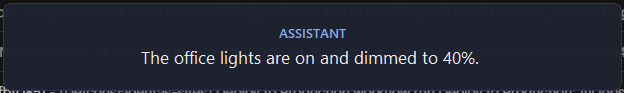
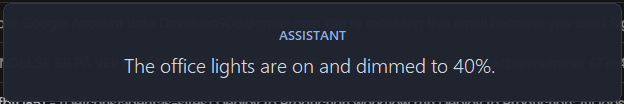
Softer popup typography + gentle reply fade-in
Lighter font weights (Segoe UI Semilight/Light), reduced-contrast reply colour,
warmer card, softer accent/error tones, and a slightly gentler slide entrance.
The reply text now fades up from the card colour when it lands instead of
snapping in.

diff --git a/overlay.py b/overlay.py
@@ -65,25 +65,26 @@ def monitor_workarea_at(x: int, y: int):
 
 
 MAGIC = "#ff00ff"          # transparent knock-out colour for rounded corners
-CARD = "#1e2230"
+CARD = "#20242f"           # slightly warmer/softer card
 BORDER = "#333a4d"
-TITLE_COL = "#e8eaed"
-ACCENT = "#8ab4f8"
+TITLE_COL = "#c9d0da"      # softened (was near-white, too harsh)
+ACCENT = "#93b7f2"         # a touch softer blue
 MUTED = "#9aa0a6"
-TEXT = "#f1f3f4"
-ERROR_COL = "#f28b82"
+TEXT = "#d6dce4"           # soft light-grey reply text, gentler contrast
+ERROR_COL = "#f0a6a0"      # softer red
+REVEAL_FROM = "#2b303c"    # colour the reply fades UP from (near the card)
 
 WIDTH = 620
-PAD = 22
+PAD = 24
 MARGIN = 44                # gap above the taskbar at rest
-SLIDE = 46                 # px the popup travels while sliding in/out
-APPEAR_MS = 200
-VANISH_MS = 150
+SLIDE = 40                 # px the popup travels while sliding in/out
+APPEAR_MS = 300            # gentler entrance
+VANISH_MS = 180
 
 FONT_LABEL = ("Segoe UI Semibold", 10)
-FONT_STATUS = ("Segoe UI", 15)
-FONT_USER = ("Segoe UI", 12, "italic")
-FONT_BODY = ("Segoe UI", 13)
+FONT_STATUS = ("Segoe UI Semilight", 17)
+FONT_USER = ("Segoe UI Light", 13, "italic")
+FONT_BODY = ("Segoe UI Semilight", 15)
 
 HIDDEN, LISTENING, THINKING, RESPONSE, ERROR = "hidden", "listening", "thinking", "response", "error"
 
@@ -105,6 +106,13 @@ def _ease_out(t):
 
 def _ease_in(t):
     return t ** 3
+
+
+def _lerp_color(a, b, t):
+    a, b = a.lstrip("#"), b.lstrip("#")
+    return "#" + "".join(
+        f"{round(int(a[i:i + 2], 16) + (int(b[i:i + 2], 16) - int(a[i:i + 2], 16)) * t):02x}"
+        for i in (0, 2, 4))
 
 
 def _round_points(x0, y0, x1, y1, r):
@@ -148,6 +156,8 @@ class Overlay:
         self._slide_job = None
         self._dismiss_job = None
         self._hardhide_job = None
+        self._reveal = 1.0       # 0..1 soft fade-in of reply text
+        self._reveal_job = None
         self._last_change = time.monotonic()
         self._watchdog()  # periodic safety net against a stuck popup
 
@@ -221,6 +231,10 @@ class Overlay:
         if self._hardhide_job is not None:
             self.root.after_cancel(self._hardhide_job)
             self._hardhide_job = None
+        if self._reveal_job is not None:
+            self.root.after_cancel(self._reveal_job)
+            self._reveal_job = None
+        self._reveal = 1.0
         self._animating = False
         self._shown = False
         self._state = HIDDEN
@@ -288,6 +302,7 @@ class Overlay:
         self._stop_pulse()
         self._dots = 0
         self._pulse = 0
+        self._reveal = 0.0 if target in (RESPONSE, ERROR) else 1.0
         try:
             self._draw()
             self._shown = True
@@ -309,11 +324,36 @@ class Overlay:
         if self._target != self._state:
             self._transition()
             return
+        if self._state in (RESPONSE, ERROR):
+            self._start_reveal()
         if self._state == ERROR:
             self._schedule_dismiss()
-        elif self._dirty:
+        if self._dirty:
             self._dirty = False
             self._refresh()
+
+    def _start_reveal(self):
+        if self._reveal_job is not None:
+            self.root.after_cancel(self._reveal_job)
+            self._reveal_job = None
+        steps = 18
+
+        def step(i):
+            self._reveal = _ease_out(i / steps)
+            try:
+                if self._shown and not self._animating and self._state in (RESPONSE, ERROR):
+                    self._draw()
+                    self.win.attributes("-alpha", 0.97)
+                    self._place(self._rest_y())
+            except Exception:  # noqa: BLE001 - reveal is cosmetic, never let it wedge
+                pass
+            if i < steps and self._shown and self._state in (RESPONSE, ERROR):
+                self._reveal_job = self.root.after(16, lambda: step(i + 1))
+            else:
+                self._reveal = 1.0
+                self._reveal_job = None
+
+        step(1)
 
     def _refresh(self):
         if not self._shown or self._animating:
@@ -353,14 +393,16 @@ class Overlay:
         elif st == RESPONSE:
             c.create_text(WIDTH / 2, y, anchor="n", text=self._assistant.upper(),
                           fill=ACCENT, font=FONT_LABEL)
-            y += 22
+            y += 24
             item = c.create_text(WIDTH / 2, y, anchor="n", text=self._response or "…",
-                                 fill=TEXT, font=FONT_BODY, width=WIDTH - 2 * PAD, justify="center")
+                                 fill=_lerp_color(REVEAL_FROM, TEXT, self._reveal),
+                                 font=FONT_BODY, width=WIDTH - 2 * PAD, justify="center")
             y = c.bbox(item)[3]
         elif st == ERROR:
             c.create_text(WIDTH / 2, y, anchor="n", text="ERROR", fill=ERROR_COL, font=FONT_LABEL)
-            y += 22
-            item = c.create_text(WIDTH / 2, y, anchor="n", text=self._response, fill=ERROR_COL,
+            y += 24
+            item = c.create_text(WIDTH / 2, y, anchor="n", text=self._response,
+                                 fill=_lerp_color(REVEAL_FROM, ERROR_COL, self._reveal),
                                  font=FONT_BODY, width=WIDTH - 2 * PAD, justify="center")
             y = c.bbox(item)[3]
 
